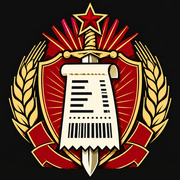
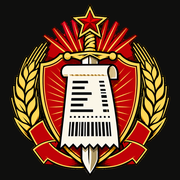
feat(brand): header emblem from the new source — transparent, without the wordmark
The emblem files are rebuilt from frontend/brand/emblem-source.png with an
alpha channel; the header no longer puts a dark backing under the image.
The touch icon is the same emblem on the opaque logo background.

The source arrived with a solid alpha channel and a flat black background:
transparency is restored by a flood fill of exact black from the corners
(steps in frontend/src/assets/brand/README.md).

diff --git a/frontend/src/theme/shell-css.test.ts b/frontend/src/theme/shell-css.test.ts
@@ -65,6 +65,33 @@ describe('account link of the header (text of the rules, not rendering)', () => 
   })
 })
 
+describe('emblem of the header (text of the rules and headers of the files, not rendering)', () => {
+  const bytes = (path: string) => readFileSync(new URL(path, source))
+
+  it('lies straight on the header bar: no backing, no frame, only the size', () => {
+    const own = rules(app).filter((item) => /\.brand-mark(?![\w-])/.test(item.selector))
+    expect(own.map((item) => item.body)).toEqual(['flex: none; width: 44px; height: 44px;', 'width: 40px; height: 40px;'])
+    // The bar under the transparent emblem is dark in both themes: the light block does not redefine it.
+    expect(rule('.brand-bar', app)).toContain('background: var(--ck-header-bg);')
+    expect(tokens.match(/^\s*--ck-header-bg:/gm)).toHaveLength(1)
+  })
+
+  it.each([['emblem-96.webp', 96], ['emblem-192.webp', 192]])('%s is a square WebP with an alpha channel', (name, side) => {
+    const file = bytes(`assets/brand/${name}`)
+    expect(file.toString('latin1', 0, 4) + file.toString('latin1', 8, 16)).toBe('RIFFWEBPVP8X')
+    expect(file[20] & 0x10, 'alpha flag of the extended header').toBe(0x10)
+    expect([file.readUIntLE(24, 3) + 1, file.readUIntLE(27, 3) + 1]).toEqual([side, side])
+  })
+
+  it('keeps the touch icon opaque: iOS paints transparency black', () => {
+    const file = bytes('../public/apple-touch-icon.png')
+    expect(file.toString('latin1', 12, 16)).toBe('IHDR')
+    expect([file.readUInt32BE(16), file.readUInt32BE(20)]).toEqual([180, 180])
+    expect(file[25], 'colour type 2 is RGB without alpha').toBe(2)
+    expect(file.includes(Buffer.from('tRNS', 'latin1'))).toBe(false)
+  })
+})
+
 describe('state rules of the shell (text of the rules, not rendering)', () => {
   const state = /:(hover|active|focus|focus-visible|focus-within|disabled|checked|visited)(?![\w-])|\[aria-(disabled|invalid|pressed|expanded|busy)/
 

diff --git a/frontend/src/App.css b/frontend/src/App.css
@@ -27,7 +27,8 @@ h2 { font-size: 1.35rem; letter-spacing: 0.01em; }
 .brand-bar { display: flex; flex-wrap: wrap; align-items: center; justify-content: space-between; gap: 6px 16px; padding: 14px max(36px, calc(50% - 424px)) 13px; border-bottom: 1px solid var(--ck-header-accent); background: var(--ck-header-bg); box-shadow: inset 0 -3px 0 var(--ck-header-border); color: var(--ck-header-text); overflow-wrap: anywhere; }
 .brand-bar :focus-visible { outline-color: var(--ck-header-focus); }
 .brand { display: inline-flex; align-items: center; gap: 10px; min-height: 44px; border-radius: var(--ck-radius-sm); font-family: var(--ck-font-display); font-size: 1.6rem; font-weight: 600; letter-spacing: 0.08em; line-height: 1.1; text-decoration: none; text-transform: uppercase; }
-.brand-mark { flex: none; width: 44px; height: 44px; border-radius: var(--ck-radius-sm); background: var(--ck-logo-bg); }
+/* The emblem file is transparent: it lies straight on the header bar, with no backing and no rounded corners. */
+.brand-mark { flex: none; width: 44px; height: 44px; }
 .brand-actions { display: flex; flex-wrap: wrap; align-items: center; gap: 8px; }
 .brand-actions a { display: inline-flex; align-items: center; min-height: 44px; padding: 8px 12px; border-radius: var(--ck-radius-sm); text-underline-offset: 4px; }
 .brand-actions a:hover { background: var(--ck-header-hover-bg); }

diff --git a/AGENTS.md b/AGENTS.md
@@ -24,7 +24,7 @@ Checkist предназначен для распознавания продук
 
 Статистика реализована на сервере и в клиенте. Клиент: экраны `/stats` («Траты за период»: круговая диаграмма, разбивки, drill-down по категориям) и `/stats/receipts` («Почему изменился средний чек»: сравнение двух периодов и график по времени), блок «График цен» в карточке товара; диаграммы — собственный SVG `frontend/src/lib/charts/` без зависимостей, одна валюта — один блок, всё состояние в адресе; описание — [docs/frontend.md](docs/frontend.md#статистика-траты-средний-чек-и-график-цен-ф1ф7), ручная приёмка — `frontend/src/features/stats/ACCEPTANCE.md`, настоящий HTTP без браузера — `frontend/scripts/check_stats_proxy.mjs dev|preview <origin>` ([результаты](docs/verification.md#фактические-результаты-ф7-2026-10-07)); после исправлений по проверке интерфейса (заход 2, 2026-10-07: подсказка линейного графика у правого края, флажки магазинов, прокрутка таблицы слагаемых, выделение после касания) — frontend 2239 тестов / 61 файл, backend не менялся и не запускался, вид в браузере не проверялся ([результаты](docs/verification.md#фактические-результаты-статистика-второй-заход-после-проверки-интерфейса-2026-10-07)); страницы `frontend/*-preview/index.html` — статические снимки на эталонах, не приёмка. Ограничения клиента: график цен берёт из фильтров карточки только период; список магазинов в формах — первые 50 (средний чек) и 200 (траты). Сервер. Локальные, с доступом как у `/api/receipts/`: `GET /api/stats/spending/` — траты за период по категориям, обобщённым продуктам, товарам или магазинам с drill-down по категории; `GET /api/stats/receipts/series/` — походы по времени; `GET /api/stats/receipts/compare/` — разложение изменения среднего чека между двумя периодами на количество, цены и состав (индекс Фишера по товарам, купленным в обоих периодах; допущение — индекс перенесён на всю корзину, покрытие отдаётся в ответе). Открытый, как 13 GET: `GET /api/products/{id}/prices/series/` — ряды цен товара по магазинам и похожих товаров того же обобщённого продукта по странам. Моделей, миграций и индексов нет; валюты не складываются и не пересчитываются; новых категорий нет — «Не разобрано» и несопоставленные строки показываются как есть; поглощённый слиянием товар наружу не выходит. Контракт и методика — [api-contract.md](docs/api-contract.md#реализовано-статистика-трат-походы-и-ряды-цен-серверная-часть), эталоны для схем клиента — `backend/api/tests/fixtures/stats/*.json`, демо только для QA — `seed_stats_demo`, [запуск для клиента](docs/development.md#qa-статистика-для-клиента), [проверки и замер](docs/verification.md#статистика-серверная-часть-с5): самый медленный запрос на демо — 132 мс. Тесты идут через `config.test_runner.Runner`: в тестовой БД autovacuum отключён, иначе планы запросов по большим незакоммиченным данным зависят от момента фоновой очистки.
 
-Оформление клиента (редизайн, 2026-10-07): красная схема с золотыми акцентами вместо зелёной, тёмная тема по умолчанию и светлая по переключателю в шапке. Все цвета записаны только в `frontend/src/theme/tokens.css` переменными `--ck-*` (тёмные значения в `:root`, светлые в `:root[data-theme="light"]`); в остальных рабочих CSS hex/rgb-цветов нет и добавлять их нельзя, имена классов, селекторы, медиа-блоки и геометрию экранов редизайн не менял. Выбор темы хранится в `localStorage` под ключом `checkist.theme`, больше нигде в `frontend/src` хранилище не используется; встроенный скрипт в `frontend/index.html` ставит сохранённую тему до первой отрисовки — при строгой CSP на сервере его нужно разрешить по хэшу либо вынести в файл. Системная настройка темы не учитывается. Логотип «ЧЕКИСТ — продуктовая разведка», эмблема, favicon и шрифт заголовков Oswald лежат в репозитории (`frontend/src/assets/brand/`, `frontend/src/assets/fonts/`, `frontend/public/`); исходник логотипа `frontend/brand/logo-source.png` в сборку не идёт; подложка логотипа `--ck-logo-bg` равна фону его файлов `#0f0f0e`. Экран входа один — настоящий `LoginPage` из `frontend/src/features/auth/` в оформлении редизайна (логотип слева, форма справа, свой `<main>`, переключатель темы; `h1` передаёт оболочка пропом `heading`); заготовки `frontend/src/features/login/` больше нет. Стили входа и `/account` — `features/auth/Auth.css` на токенах, страж состояний кнопок — `features/auth/auth-css.test.ts`. Описание — [docs/frontend.md](docs/frontend.md#тема-бренд-и-экран-входа), ручная приёмка человеком — [frontend/REDESIGN_ACCEPTANCE.md](frontend/REDESIGN_ACCEPTANCE.md). Статические превью `frontend/*-preview/`, `frontend/src/features/merges/preview/` и `frontend/src/features/classification/preview/` — снимки прежнего зелёного оформления, не пересобирались. Итог редизайна (И, 2026-10-07): frontend 2828 тестов / 77 файлов, lint и build — exit 0; backend и proxy-скрипты не запускались, сервер не менялся; экраны в браузере не проверялись ([результаты](docs/verification.md#фактические-результаты-редизайн-клиента-итог-и-2026-10-07)). Второй заход (И2, 2026-10-08): залитая кнопка-ссылка «Загрузить фото» на `/receipts` при наведении теряла белый текст — общее `.action-link:hover` из `App.css` весило как `.action-link.receipt-primary` и шло в сборке позже; теперь общее правило — `.action-link:where(:hover)`, а залитая ссылка сама задаёт текст и рамку для `:hover` и `:active` (страж — `frontend/src/features/receipts/receipts-css.test.ts`). Правило для новых стилей: `App.css` в сборке идёт ПОСЛЕ CSS экранов, поэтому общие правила состояний в нём держать через `:where()`. Frontend 2832 теста / 78 файлов, lint и build — exit 0; backend и proxy-скрипты не запускались; экраны в браузере не проверялись ([результаты](docs/verification.md#фактические-результаты-редизайн-клиента-второй-заход-и2-2026-10-08)). Слияние с разделением пользователей (М4, 2026-10-08): в ветку редизайна влит main, вход один и настоящий, в шапке «Войти» (гость на `/health`) либо имя пользователя; frontend 3166 тестов / 82 файла, lint и build — exit 0; backend-тесты и proxy-скрипты на слитой ветке не запускались (в worktree нет venv и `.env`), экраны в браузере не проверялись ([результаты](docs/verification.md#фактические-результаты-редизайн-клиента-слияние-с-разделением-пользователей-м4-2026-10-08)); сценарии входа и `/account` — `frontend/REDESIGN_ACCEPTANCE.md`, сценарий 6. Отложено в отдельную глобальную задачу: глубокая мобильная переработка — карточный вид таблиц, закреплённые панели действий, загрузка с камеры, графики под палец, нижняя навигация.
+Оформление клиента (редизайн, 2026-10-07): красная схема с золотыми акцентами вместо зелёной, тёмная тема по умолчанию и светлая по переключателю в шапке. Все цвета записаны только в `frontend/src/theme/tokens.css` переменными `--ck-*` (тёмные значения в `:root`, светлые в `:root[data-theme="light"]`); в остальных рабочих CSS hex/rgb-цветов нет и добавлять их нельзя, имена классов, селекторы, медиа-блоки и геометрию экранов редизайн не менял. Выбор темы хранится в `localStorage` под ключом `checkist.theme`, больше нигде в `frontend/src` хранилище не используется; встроенный скрипт в `frontend/index.html` ставит сохранённую тему до первой отрисовки — при строгой CSP на сервере его нужно разрешить по хэшу либо вынести в файл. Системная настройка темы не учитывается. Логотип «ЧЕКИСТ — продуктовая разведка», эмблема, favicon и шрифт заголовков Oswald лежат в репозитории (`frontend/src/assets/brand/`, `frontend/src/assets/fonts/`, `frontend/public/`); исходники `frontend/brand/logo-source.png` и `frontend/brand/emblem-source.png` в сборку не идут; подложка полного логотипа `--ck-logo-bg` равна фону его файлов `#0f0f0e`; эмблема шапки (с 2026-10-08, М5) — из отдельного исходника, прозрачная, без надписи и без подложки, `apple-touch-icon.png` — она же на непрозрачном `#0f0f0e` (`frontend/src/assets/brand/README.md`). Экран входа один — настоящий `LoginPage` из `frontend/src/features/auth/` в оформлении редизайна (логотип слева, форма справа, свой `<main>`, переключатель темы; `h1` передаёт оболочка пропом `heading`); заготовки `frontend/src/features/login/` больше нет. Стили входа и `/account` — `features/auth/Auth.css` на токенах, страж состояний кнопок — `features/auth/auth-css.test.ts`. Описание — [docs/frontend.md](docs/frontend.md#тема-бренд-и-экран-входа), ручная приёмка человеком — [frontend/REDESIGN_ACCEPTANCE.md](frontend/REDESIGN_ACCEPTANCE.md). Статические превью `frontend/*-preview/`, `frontend/src/features/merges/preview/` и `frontend/src/features/classification/preview/` — снимки прежнего зелёного оформления, не пересобирались. Итог редизайна (И, 2026-10-07): frontend 2828 тестов / 77 файлов, lint и build — exit 0; backend и proxy-скрипты не запускались, сервер не менялся; экраны в браузере не проверялись ([результаты](docs/verification.md#фактические-результаты-редизайн-клиента-итог-и-2026-10-07)). Второй заход (И2, 2026-10-08): залитая кнопка-ссылка «Загрузить фото» на `/receipts` при наведении теряла белый текст — общее `.action-link:hover` из `App.css` весило как `.action-link.receipt-primary` и шло в сборке позже; теперь общее правило — `.action-link:where(:hover)`, а залитая ссылка сама задаёт текст и рамку для `:hover` и `:active` (страж — `frontend/src/features/receipts/receipts-css.test.ts`). Правило для новых стилей: `App.css` в сборке идёт ПОСЛЕ CSS экранов, поэтому общие правила состояний в нём держать через `:where()`. Frontend 2832 теста / 78 файлов, lint и build — exit 0; backend и proxy-скрипты не запускались; экраны в браузере не проверялись ([результаты](docs/verification.md#фактические-результаты-редизайн-клиента-второй-заход-и2-2026-10-08)). Слияние с разделением пользователей (М4, 2026-10-08): в ветку редизайна влит main, вход один и настоящий, в шапке «Войти» (гость на `/health`) либо имя пользователя; frontend 3166 тестов / 82 файла, lint и build — exit 0; backend-тесты и proxy-скрипты на слитой ветке не запускались (в worktree нет venv и `.env`), экраны в браузере не проверялись ([результаты](docs/verification.md#фактические-результаты-редизайн-клиента-слияние-с-разделением-пользователей-м4-2026-10-08)); сценарии входа и `/account` — `frontend/REDESIGN_ACCEPTANCE.md`, сценарий 6. Отложено в отдельную глобальную задачу: глубокая мобильная переработка — карточный вид таблиц, закреплённые панели действий, загрузка с камеры, графики под палец, нижняя навигация.
 
 Разделение пользователей реализовано; **тесты, миграции, демо, серверы и proxy-скрипты после него разработчики не запускали** — проверяет QA по [verification.md](docs/verification.md#разделение-пользователей-проверки-qa). Владелец (`owner`, FK на пользователя, `PROTECT`) есть только у `Receipt` и `SourcePhoto`; строки, скидки, налоги, задания, вырезки и попытки наследуют его по связям; магазины, каталог, написания, `merges` и `classification` общие. Три уровня дедупликации чека и уникальность файла фото действуют в пределах владельца: один кассовый чек у двоих — две личные покупки. Прежние данные миграции отдали пользователю `local` (`backend/receipts/ownership.py`); в режиме `accounts` под ним входят после `manage.py changepassword local`. Режим — `CHECKIST_AUTH_MODE`: `accounts` (по умолчанию и единственный на сервере: сессия Django, общая с `/admin/`; без входа `401 not_authenticated` на всё, кроме health, `/api/auth/csrf/` и запасного `404`) либо `local_single` (образец `.env`, QA и тестовый раннер; только при `DJANGO_DEBUG=1`, иначе настройки не загружаются; без входа, каждый запрос — пользователь `local`, правила прежние). Вход — `/api/auth/login/`, `logout/`, `password/`, `/api/me/`; защита от перебора — `accounts.LoginFailure` и `ThrottledModelBackend`, общие с админкой (`429 login_throttled` с `retry_after`). Чужой чек, фото, задание и вырезка отвечают `404`, статистика считается по своим чекам; действия слияний и предположений требуют права `catalog.moderate_catalog` (`403` без него), журналы хранят, кто решил. Цены общие: точка чужой покупки в `products/{id}/prices/` несёт `own: false` и `null` в `observed_at`, `quantity`, `discount_amount`, `receipt_id`, `position`; в покупках группы слияния модератор видит чужие строки с `receipt_id: null`, не модератор — только свои. Клиент: вход — состояние оболочки на том же адресе (гость видит его везде, кроме `/health`), экран без оболочки; адрес `/login` — тот же экран, после входа с него открывается каталог; `/account` — смена пароля и выход ([docs/frontend.md](docs/frontend.md#вход-сессия-и-разделение-пользователей-к1)). Сервер: gunicorn за Caddy, systemd, `manage.py backup` — [docs/deployment.md](docs/deployment.md), не проверено. Контракт — [api-contract.md](docs/api-contract.md#реализовано-пользователи-вход-и-доступ-по-владельцу), модель — [data-model.md](docs/data-model.md#владелец-и-пользователи), запуск — [development.md](docs/development.md#режимы-доступа-и-учётные-записи); демо только для QA — `seed_accounts_demo`, настоящий HTTP двух сессий — `node frontend/scripts/check_accounts_proxy.mjs dev|preview <origin> <json>`; интерфейс принимает человек по [ACCEPTANCE.md](frontend/src/features/auth/ACCEPTANCE.md), сервер — по [deployment-acceptance.md](docs/deployment-acceptance.md).
 

diff --git a/frontend/src/assets/brand/README.md b/frontend/src/assets/brand/README.md
@@ -1,57 +1,87 @@
 # Файлы бренда
 
-Логотип «ЧЕКИСТ — продуктовая разведка». Все растровые файлы получены из одного исходника кадрированием и сжатием; генерации изображений не было.
+Логотип «ЧЕКИСТ — продуктовая разведка» и эмблема без надписи. Растровые файлы получены из двух исходников владельца кадрированием и сжатием; генерации изображений не было.
 
 | Файл | Что | Размер, px | Вес, байт |
 | --- | --- | --- | --- |
-| `frontend/brand/logo-source.png` | исходник владельца как есть; в сборку не идёт | 1254×1254 | 1 584 643 |
-| `logo-640.webp` | полный логотип для экрана входа | 640×640 | 52 052 |
+| `frontend/brand/logo-source.png` | исходник полного логотипа как есть; в сборку не идёт | 1254×1254 | 1 584 643 |
+| `frontend/brand/emblem-source.png` | исходник эмблемы без надписи как есть (с 2026-10-08); в сборку не идёт | 1254×1254 | 1 709 161 |
+| `logo-640.webp` | полный логотип для экрана входа, непрозрачный | 640×640 | 52 052 |
 | `logo-1280.webp` | полный логотип для экрана входа, плотные экраны | 1280×1280 | 122 410 |
-| `emblem-96.webp` | эмблема без надписей, для шапки (показ 40–48 px) | 96×96 | 4 800 |
-| `emblem-192.webp` | то же для плотных экранов | 192×192 | 14 052 |
-| `frontend/public/apple-touch-icon.png` | тот же кадр эмблемы | 180×180 | 56 164 |
+| `emblem-96.webp` | эмблема без надписи и без фона (RGBA), для шапки (показ 40–44 px) | 96×96 | 6 380 |
+| `emblem-192.webp` | то же для плотных экранов | 192×192 | 18 566 |
+| `frontend/public/apple-touch-icon.png` | та же эмблема на подложке `#0f0f0e`, без альфа-канала | 180×180 | 47 586 |
+| `frontend/brand/emblem-check.png` | контрольный лист для приёмки, не снимок интерфейса: готовые `emblem-*.webp` на цвете шапки `--ck-header-bg` и на фонах страницы тёмной и светлой тем (крупно, 44 px на плотном и обычном экране, 40 px), справа `apple-touch-icon.png`; в сборку не идёт | 1460×320 | 216 354 |
 | `frontend/public/favicon.svg` | нарисован вручную: красная звезда с золотой обводкой на тёмном скруглённом квадрате | вектор, `viewBox` 64×64 | 325 |
 
 ## Фон
 
-Исходник непрозрачный, фон — почти чёрный с шумом ±1–2 на канал. Медиана по рамке шириной 8 px со всех четырёх сторон: **`#0f0f0e`** (RGB 15, 15, 14; среднее 14,6 / 14,5 / 14,1). Это значение для токена `--ck-logo-bg`.
+**Полный логотип** (`logo-source.png`, `logo-*.webp`) непрозрачный, фон — почти чёрный с шумом ±1–2 на канал. Медиана по рамке шириной 8 px со всех четырёх сторон: **`#0f0f0e`** (RGB 15, 15, 14; среднее 14,6 / 14,5 / 14,1). Это значение для токена `--ck-logo-bg`. Фон в прозрачность не вырезан: на светлой подложке вокруг логотипа будет ореол, поэтому его всегда ставят на подложку `--ck-logo-bg` (доска экрана входа).
 
-Фон в прозрачность не вырезан: на светлой подложке вокруг эмблемы будет ореол. Логотип и эмблему всегда ставить на подложку `#0f0f0e`.
+**Эмблема** (`emblem-*.webp`) — с прозрачным фоном, подложка ей не нужна: в шапке она лежит прямо на полосе `--ck-header-bg`, тёмной в обеих темах. Внешний контур эмблемы чёрный, поэтому на светлом фоне она тоже читается, но там её никто не показывает.
 
-Цвета, взятые с исходника для `favicon.svg`: красный звезды `#bd0109`, золото `#fcd36e`.
+Значку `apple-touch-icon.png` прозрачность нельзя: iOS заливает её чёрным. Он собран на подложке `#0f0f0e` и сохранён без альфа-канала.
+
+Цвета, взятые с исходника логотипа для `favicon.svg`: красный звезды `#bd0109`, золото `#fcd36e`.
+
+## Исходник эмблемы: фон в файле не прозрачный
+
+`emblem-source.png` записан как RGBA, но альфа-канал у него сплошной (минимум и максимум — 255): вместо прозрачности вокруг рисунка лежит ровный чёрный `(0, 0, 0)` без шума — 691 580 пикселей из 1 572 516, из них 640 682 связаны с углами. Файл положен как получен, прозрачность восстановлена при сборке:
+
+- фон — пиксели с точным значением `(0, 0, 0)`, до которых заливка (4-связная) доходит от четырёх углов; они получают альфу 0, остальные — 255;
+- результат устойчив: при пороге «максимум канала ≤ 4» заливка захватывает те же области (641 329 пикселей), рамка содержимого та же — `(58, 5, 1193, 1228)`; при пороге 8 она уже протекает в чёрный контур, поэтому порог — точный ноль;
+- чёрные участки внутри рисунка (сердцевины контуров, штрихкод, просветы между колосьями и щитом, не связанные с краем) остаются непрозрачными чёрными — отличить в файле фон от чёрной краски там нечем; при показе 40–44 px на тёмной полосе это часть контура.
+
+Если владелец пришлёт файл с настоящим альфа-каналом, шаг заливки заменяется на `alpha = im.getchannel('A')`, остальное то же.
 
 ## Как получены
 
-Pillow 12.3.0 (окружение backend), фильтр уменьшения — `Image.LANCZOS`. Скрипт в репозиторий не входит; ниже — всё, что нужно для повторения.
+Pillow 12.3.0 (окружение backend), фильтр уменьшения — `Image.LANCZOS`. Скрипт в репозиторий не входит; ниже — всё, что нужно для повторения (запуск из корня репозитория).
+
+Полный логотип:
 
 ```python
 from PIL import Image
 im = Image.open('frontend/brand/logo-source.png').convert('RGB')
 
-# Полный логотип. 1280 — небольшое увеличение исходника 1254 px.
+# 1280 — небольшое увеличение исходника 1254 px.
 im.resize((640, 640), Image.LANCZOS).save('logo-640.webp', 'WEBP', quality=82, method=6)
 im.resize((1280, 1280), Image.LANCZOS).save('logo-1280.webp', 'WEBP', quality=82, method=6)
-
-# Эмблема: квадратный кадр верхней части (после закраски, см. ниже).
-sq = emblem.crop((160, 0, 1090, 930))  # left, top, right, bottom
-sq.resize((96, 96), Image.LANCZOS).save('emblem-96.webp', 'WEBP', quality=90, method=6)
-sq.resize((192, 192), Image.LANCZOS).save('emblem-192.webp', 'WEBP', quality=90, method=6)
-sq.resize((180, 180), Image.LANCZOS).save('apple-touch-icon.png', 'PNG', optimize=True)
 ```
 
-### Закраска под эмблемой
+Эмблема и значок:
 
-Чистым кадрированием эмблему от надписи не отделить: остриё меча (до y = 912) и нижний сгиб ленты заходят на золотую линию над словом «ЧЕКИСТ» (y = 837–886) и на верх букв (от y ≈ 859). Поэтому в копии исходника перед кадрированием закрашено цветом фона `#0f0f0e` всё, что ниже верхнего края золотой линии с запасом 3 px, кроме:
+```python
+from PIL import Image, ImageChops, ImageDraw
+im = Image.open('frontend/brand/emblem-source.png').convert('RGB')
 
-- острия меча — связная светлая область (максимум канала > 60) от точки (630, 880) ниже y = 836, расширенная на 4 px, чтобы сохранить тёмный контур;
-- красного полотна ленты — пиксели с `r > 60 and g < 0.35 * r` выше y = 900.
+# Альфа: точный чёрный, связанный с углами, — фон.
+r, g, b = im.split()
+m = ImageChops.lighter(ImageChops.lighter(r, g), b).point(lambda v: 255 if v else 0)
+w, h = im.size
+for corner in [(0, 0), (w - 1, 0), (0, h - 1), (w - 1, h - 1)]:
+    ImageDraw.floodfill(m, corner, 128)
+alpha = m.point(lambda v: 0 if v == 128 else 255)
 
-Верхний край линии измерен по столбцам (x → y), между точками — линейная интерполяция:
+# Кадр по рамке содержимого (58, 5, 1193, 1228) = 1135×1223, в центре прозрачного
+# квадрата со стороной 1223 + 2·24 = 1271: пропорции не искажены, поле сверху и снизу 24 px.
+rgba = im.convert('RGBA'); rgba.putalpha(alpha)
+cut = rgba.crop(alpha.getbbox())
+side = max(cut.size) + 2 * 24
+sq = Image.new('RGBA', (side, side), (0, 0, 0, 0))
+sq.paste(cut, ((side - cut.width) // 2, (side - cut.height) // 2))
 
+sq.resize((96, 96), Image.LANCZOS).save('frontend/src/assets/brand/emblem-96.webp', 'WEBP', quality=90, method=6)
+sq.resize((192, 192), Image.LANCZOS).save('frontend/src/assets/brand/emblem-192.webp', 'WEBP', quality=90, method=6)
+
+# Значок iOS: тот же квадрат на непрозрачной подложке #0f0f0e, RGB.
+icon = Image.new('RGBA', (side, side), (15, 15, 14, 255))
+icon.alpha_composite(sq)
+icon.convert('RGB').resize((180, 180), Image.LANCZOS).save('frontend/public/apple-touch-icon.png', 'PNG', optimize=True)
 ```
-130→836 140→837 175→843 210→848 245→852 280→857 315→861 350→864 385→867 420→870
-455→872 525→872 560→876 700→876 805→873 840→870 875→867 910→863 945→860 980→856
-1015→852 1050→847 1085→841 1121→836
-```
 
-Вместе с линией ушла тонкая золотая кромка нижнего края ленты там, где она сливается с линией (x ≈ 455–560 и 700–800). При показе 40–48 px и в значке 180 px это незаметно; для крупного показа эмблемы без надписи нужен отдельный исходник от автора.
+Проверка результата: оба `emblem-*.webp` — режим RGBA, альфа от 0 до 255, угловой пиксель `(0, 0, 0, 0)`; `apple-touch-icon.png` — режим RGB, угловой пиксель `(15, 15, 14)`. Заголовки этих трёх файлов сторожит `frontend/src/theme/shell-css.test.ts`.
+
+## История: прежняя эмблема (до 2026-10-08)
+
+До замены эмблема вырезалась из полного логотипа: квадратный кадр `(160, 0, 1090, 930)` его верхней части, непрозрачный, с фоном `#0f0f0e`. Надпись под ней закрашивалась цветом фона вручную по измеренной кромке золотой линии, потому что остриё меча и лента заходили на надпись; в шапке под картинкой лежала подложка `--ck-logo-bg` со скруглением. С отдельным исходником эмблемы закраска и подложка не нужны; прежние файлы — в истории git (`emblem-96.webp` 4 800 байт, `emblem-192.webp` 14 052 байта, `apple-touch-icon.png` 56 164 байта).

diff --git a/docs/frontend.md b/docs/frontend.md
@@ -38,7 +38,7 @@
 | --- | --- |
 | `src/App.tsx`, `App.css`, `main.tsx`, `index.html` | F2: shell и общие стили; F5 подключает feature-экраны в App. `main.tsx` подключает `theme/tokens.css` раньше `App.css`; в `index.html` — встроенный скрипт темы |
 | `src/theme/**` | Редизайн: `tokens.css` — единственный файл с цветами, `theme.ts` — хранилище темы и `useTheme`, `ThemeToggle` — кнопка переключения |
-| `src/assets/brand/**`, `src/assets/fonts/**`, `public/`, `frontend/brand/` | Редизайн: логотип и эмблема (WebP), шрифт заголовков Oswald с лицензией, favicon и apple-touch-icon; `frontend/brand/logo-source.png` — исходник, в сборку не идёт |
+| `src/assets/brand/**`, `src/assets/fonts/**`, `public/`, `frontend/brand/` | Редизайн: логотип и эмблема (WebP), шрифт заголовков Oswald с лицензией, favicon и apple-touch-icon; `frontend/brand/logo-source.png` и `emblem-source.png` — исходники, в сборку не идут |
 | `src/navigation/` | F2: routes/query, controller с подставляемым History-окружением, browser hooks, Link и Node-тесты |
 | `src/components/` | F2: RequestState, Pagination и их Node-проверки; R2: общий механизм локального фокуса |
 | `src/pages/` | F2: HealthPage и типы props экранов; прежние CatalogPlaceholder больше не подключены |
@@ -154,8 +154,9 @@ Feature-экраны рендерятся под общим h1, собствен
 
 ### Бренд
 
-- Файлы и способ их получения — `frontend/src/assets/brand/README.md`. Полный логотип (`logo-640.webp`, `logo-1280.webp`) показывает экран входа, эмблему без надписей (`emblem-96.webp`, `emblem-192.webp`) — шапка; `frontend/public/favicon.svg` (красная звезда с золотой обводкой) и `apple-touch-icon.png` подключены в `index.html`. Заголовок вкладки — `Чекист — <название экрана>`.
-- Файлы логотипа непрозрачные, фон — почти чёрный `#0f0f0e`: логотип и эмблему ставят только на подложку `--ck-logo-bg`. Исходник `frontend/brand/logo-source.png` (1,58 МБ) лежит вне `src/` и `public/` и в `dist/` не попадает.
+- Файлы и способ их получения — `frontend/src/assets/brand/README.md`. Полный логотип (`logo-640.webp`, `logo-1280.webp`) показывает экран входа, эмблему без надписи и без фона (`emblem-96.webp`, `emblem-192.webp`, WebP с альфа-каналом) — шапка; `frontend/public/favicon.svg` (красная звезда с золотой обводкой) и `apple-touch-icon.png` (та же эмблема на непрозрачной подложке `#0f0f0e`) подключены в `index.html`. Заголовок вкладки — `Чекист — <название экрана>`.
+- Файлы полного логотипа непрозрачные, фон — почти чёрный `#0f0f0e`: логотип ставят только на подложку `--ck-logo-bg` (доска экрана входа). Эмблема с 2026-10-08 собрана из отдельного исходника владельца и прозрачная: `.brand-mark` в `App.css` задаёт ей только размер (44 px, на узком экране 40 px), подложки, рамки и скругления нет — она лежит прямо на полосе шапки `--ck-header-bg`, тёмной в обеих темах. Правило и заголовки файлов (альфа-канал у эмблемы, его отсутствие у `apple-touch-icon.png`) сторожит `theme/shell-css.test.ts`.
+- Исходники `frontend/brand/logo-source.png` (1,58 МБ) и `frontend/brand/emblem-source.png` (1,71 МБ) лежат вне `src/` и `public/` и в `dist/` не попадают. В файле исходника эмблемы фон не прозрачный, а ровный чёрный; прозрачность восстановлена при сборке заливкой от углов — шаги в `src/assets/brand/README.md`.
 - Шрифт заголовков — вариативный Oswald (OFL 1.1, `src/assets/fonts/`), один файл на латиницу и кириллицу, `font-display: swap`; внешних шрифтов и CDN нет.
 - Ироничные фразы стоят только в нерабочих местах: строка над заголовком («Доверяй, но проверяй чек»), подвал, экран входа, «Страница не найдена». Тексты ошибок, подписи полей и кнопок, статусы и сообщения загрузки прежние.
 

diff --git a/docs/verification.md b/docs/verification.md
@@ -412,6 +412,32 @@ node frontend/scripts/check_stats_proxy.mjs preview http://127.0.0.1:15173
 
 `403` настоящим HTTP — отдельным сервером с тем же environment и `$env:ALLOW_LOCAL_RECOGNITION_API='0'` на свободном порту: `curl.exe -s -o NUL -w "%{http_code}" "http://127.0.0.1:18001/api/stats/spending/"` — `403`, а `…/api/products/1/prices/series/?date_from=2025-01-01` — `200`.
 
+### Фактические результаты: редизайн клиента, эмблема шапки (М5), 2026-10-08
+
+Ветка `orca/task_muzt2k6j1n`, замечание человека к редизайну: «Поменяй эмблему в шапке на картинку без фона и без текста». Windows 11, PowerShell, каталог `frontend/`; Pillow 12.3.0 из `backend/.venv` основного checkout — только для пересборки картинок. Изменены: `frontend/brand/emblem-source.png` (новый исходник как получен), `emblem-96.webp`, `emblem-192.webp`, `frontend/public/apple-touch-icon.png`, правило `.brand-mark` в `App.css` (убраны `background: var(--ck-logo-bg)` и `border-radius`), страж `src/theme/shell-css.test.ts`, документы. Полный логотип экрана входа, `logo-source.png`, `favicon.svg`, разметка `App.tsx` и сервер не менялись.
+
+Расхождение с заданием: исходник описан как PNG с прозрачным фоном, но альфа-канал у файла сплошной (минимум и максимум 255), вокруг рисунка — ровный чёрный `(0, 0, 0)`. Прозрачность восстановлена при сборке: фон — точный чёрный, связанный заливкой с четырьмя углами (640 682 пикселя, рамка содержимого `(58, 5, 1193, 1228)`); чёрные участки внутри рисунка, не связанные с краем, остались чёрными. Шаги и измерения — `frontend/src/assets/brand/README.md`.
+
+Проверено и прошло (на окончательном состоянии ветки):
+
+| Команда | Результат |
+| --- | --- |
+| `npm.cmd ci` | exit 0 |
+| `npm.cmd run lint` | exit 0 |
+| `npm.cmd run test` | exit 0, 3170 тестов / 82 файла (М4 — 3166 / 82; +4 в `theme/shell-css.test.ts`: правило `.brand-mark` без подложки, альфа-канал и размер двух файлов эмблемы, непрозрачный `apple-touch-icon.png` 180×180) |
+| `npm.cmd run build` | exit 0; `dist/`: `apple-touch-icon.png` (47 586 байт), `assets/emblem-96` (6 380) и `emblem-192` (18 566) `.webp`, `logo-640` (52 052) и `logo-1280` (122 410) `.webp` — прежние, CSS 68 623 байта, JS 594 891 байт; исходников из `frontend/brand/` в `dist/` нет |
+| Pillow: чтение готовых файлов | `emblem-96.webp` и `emblem-192.webp` — WEBP, RGBA, альфа 0–255, угловой пиксель `(0, 0, 0, 0)`; `apple-touch-icon.png` — PNG, RGB, 180×180, угловой пиксель `(15, 15, 14)` |
+
+Проверено и не прошло: ничего.
+
+Не проверено и почему:
+
+| Что | Причина | Шаги для человека |
+| --- | --- | --- |
+| **Вид эмблемы в шапке в браузере**, обе темы, узкий экран, масштаб 200 % | Автоматизация браузера запрещена правилами проекта | [frontend/REDESIGN_ACCEPTANCE.md](../frontend/REDESIGN_ACCEPTANCE.md), сценарий 1, шаг 4; сценарий 7, шаг 1 |
+| Значок на экране «Домой» iOS | Нет устройства | Тот же файл, сценарий 10, шаг 4 |
+| Backend-тесты, миграции, proxy-скрипты | Сервер и контракт не менялись; разработчик их не запускает | — |
+
 ### Фактические результаты: редизайн клиента, слияние с разделением пользователей (М4), 2026-10-08
 
 Ветка `orca/task_muzs8b3q1d`, возврат редизайна после ревью. К этому состоянию в ветку редизайна влит `main` с разделением пользователей (М1, слияние `c1635f2` с `main` на `238137b`), экран входа объединён и `features/auth` переведён на токены (М2, `db0213d`), доведены `App.css`, `tokens.css` и `index.html` (М3, `1f59a2c`). Windows 11, Node v24.18.0, npm 11.16.0, PowerShell, каталог `frontend/`. В этой задаче изменены только документы; код клиента и сервера не менялся.

diff --git a/frontend/REDESIGN_ACCEPTANCE.md b/frontend/REDESIGN_ACCEPTANCE.md
@@ -126,7 +126,7 @@ npm.cmd run dev -- --port 15174
 1. Очистить данные сайта (DevTools → Application → Storage → Clear site data) либо открыть окно инкогнито. Открыть `/`.
 2. Тема тёмная: почти чёрный фон, тёплый светлый текст. Каталог работает: поиск, категории, список товаров, пагинация.
 3. Шапка — тёмная полоса во всю ширину окна с золотой и красной линией снизу. В ней слева эмблема (меч с чеком на красном щите) и «ЧЕКИСТ» прописными, справа кнопка «Тема: тёмная», ниже пять разделов: «Каталог», «Чеки», «Статистика», «Обработка», «Состояние сервисов». Текущий раздел золотой, со звёздочкой перед названием. Ссылки «Войти», имени пользователя и «Аккаунт» в режиме без входа нет (со входом — сценарий 6).
-4. Вокруг эмблемы не должно быть заметного квадрата другого оттенка. Файл эмблемы непрозрачный (фон `#0f0f0e`), полоса шапки — `#1a0c0a`: если квадрат заметен и мешает, отметить это отдельно.
+4. Эмблема в шапке — без фона и без надписи: красная звезда, лучи, меч, красный щит с белым чеком и штрихкодом, золотые колосья, красная лента. Вокруг неё нет ни тёмного квадрата, ни рамки, ни скруглённой подложки — сквозь поля картинки виден цвет полосы шапки; слов «ЧЕКИСТ» и «продуктовая разведка» на самой картинке нет (надпись «ЧЕКИСТ» рядом — текст ссылки). Переключить тему на светлую: шапка остаётся тёмной, эмблема выглядит так же. Края рисунка ровные, без светлой или цветной каймы; пропорции не искажены (эмблема чуть выше, чем шире). При масштабе 200 % и на плотном экране картинка резкая. Тёмные просветы между колосьями и щитом — часть рисунка (в исходнике они чёрные), это не дефект.
 5. Над заголовком экрана строка «Доверяй, но проверяй чек», в подвале — «Чекист · Продуктовая разведка · Совершенно несекретно».
 
 ### 2. Светлая тема
@@ -279,7 +279,8 @@ npm.cmd run dev -- --port 15174
 1. Значок вкладки — красная звезда с золотой обводкой на тёмном скруглённом квадрате; виден в светлом и тёмном оформлении браузера.
 2. Заголовок вкладки — «Чекист — Каталог продуктов» и меняется по экранам («Чекист — Чеки», «Чекист — Вход», «Чекист — Страница не найдена»).
 3. Собранное приложение (`npm.cmd run build; npm.cmd run preview -- --port 15173`): значок и эмблема на месте — так проверяется, что файлы попали в сборку.
-4. Мобильный браузер либо режим устройства: цвет панели браузера (`theme-color`) следует теме.
+4. iPhone либо iPad, Safari → «Поделиться» → «На экран „Домой“»: значок — та же эмблема без надписи на почти чёрном квадрате, без прозрачных дыр (`apple-touch-icon.png` непрозрачный).
+5. Мобильный браузер либо режим устройства: цвет панели браузера (`theme-color`) следует теме.
 
 ### 11. Экранный диктор
 
